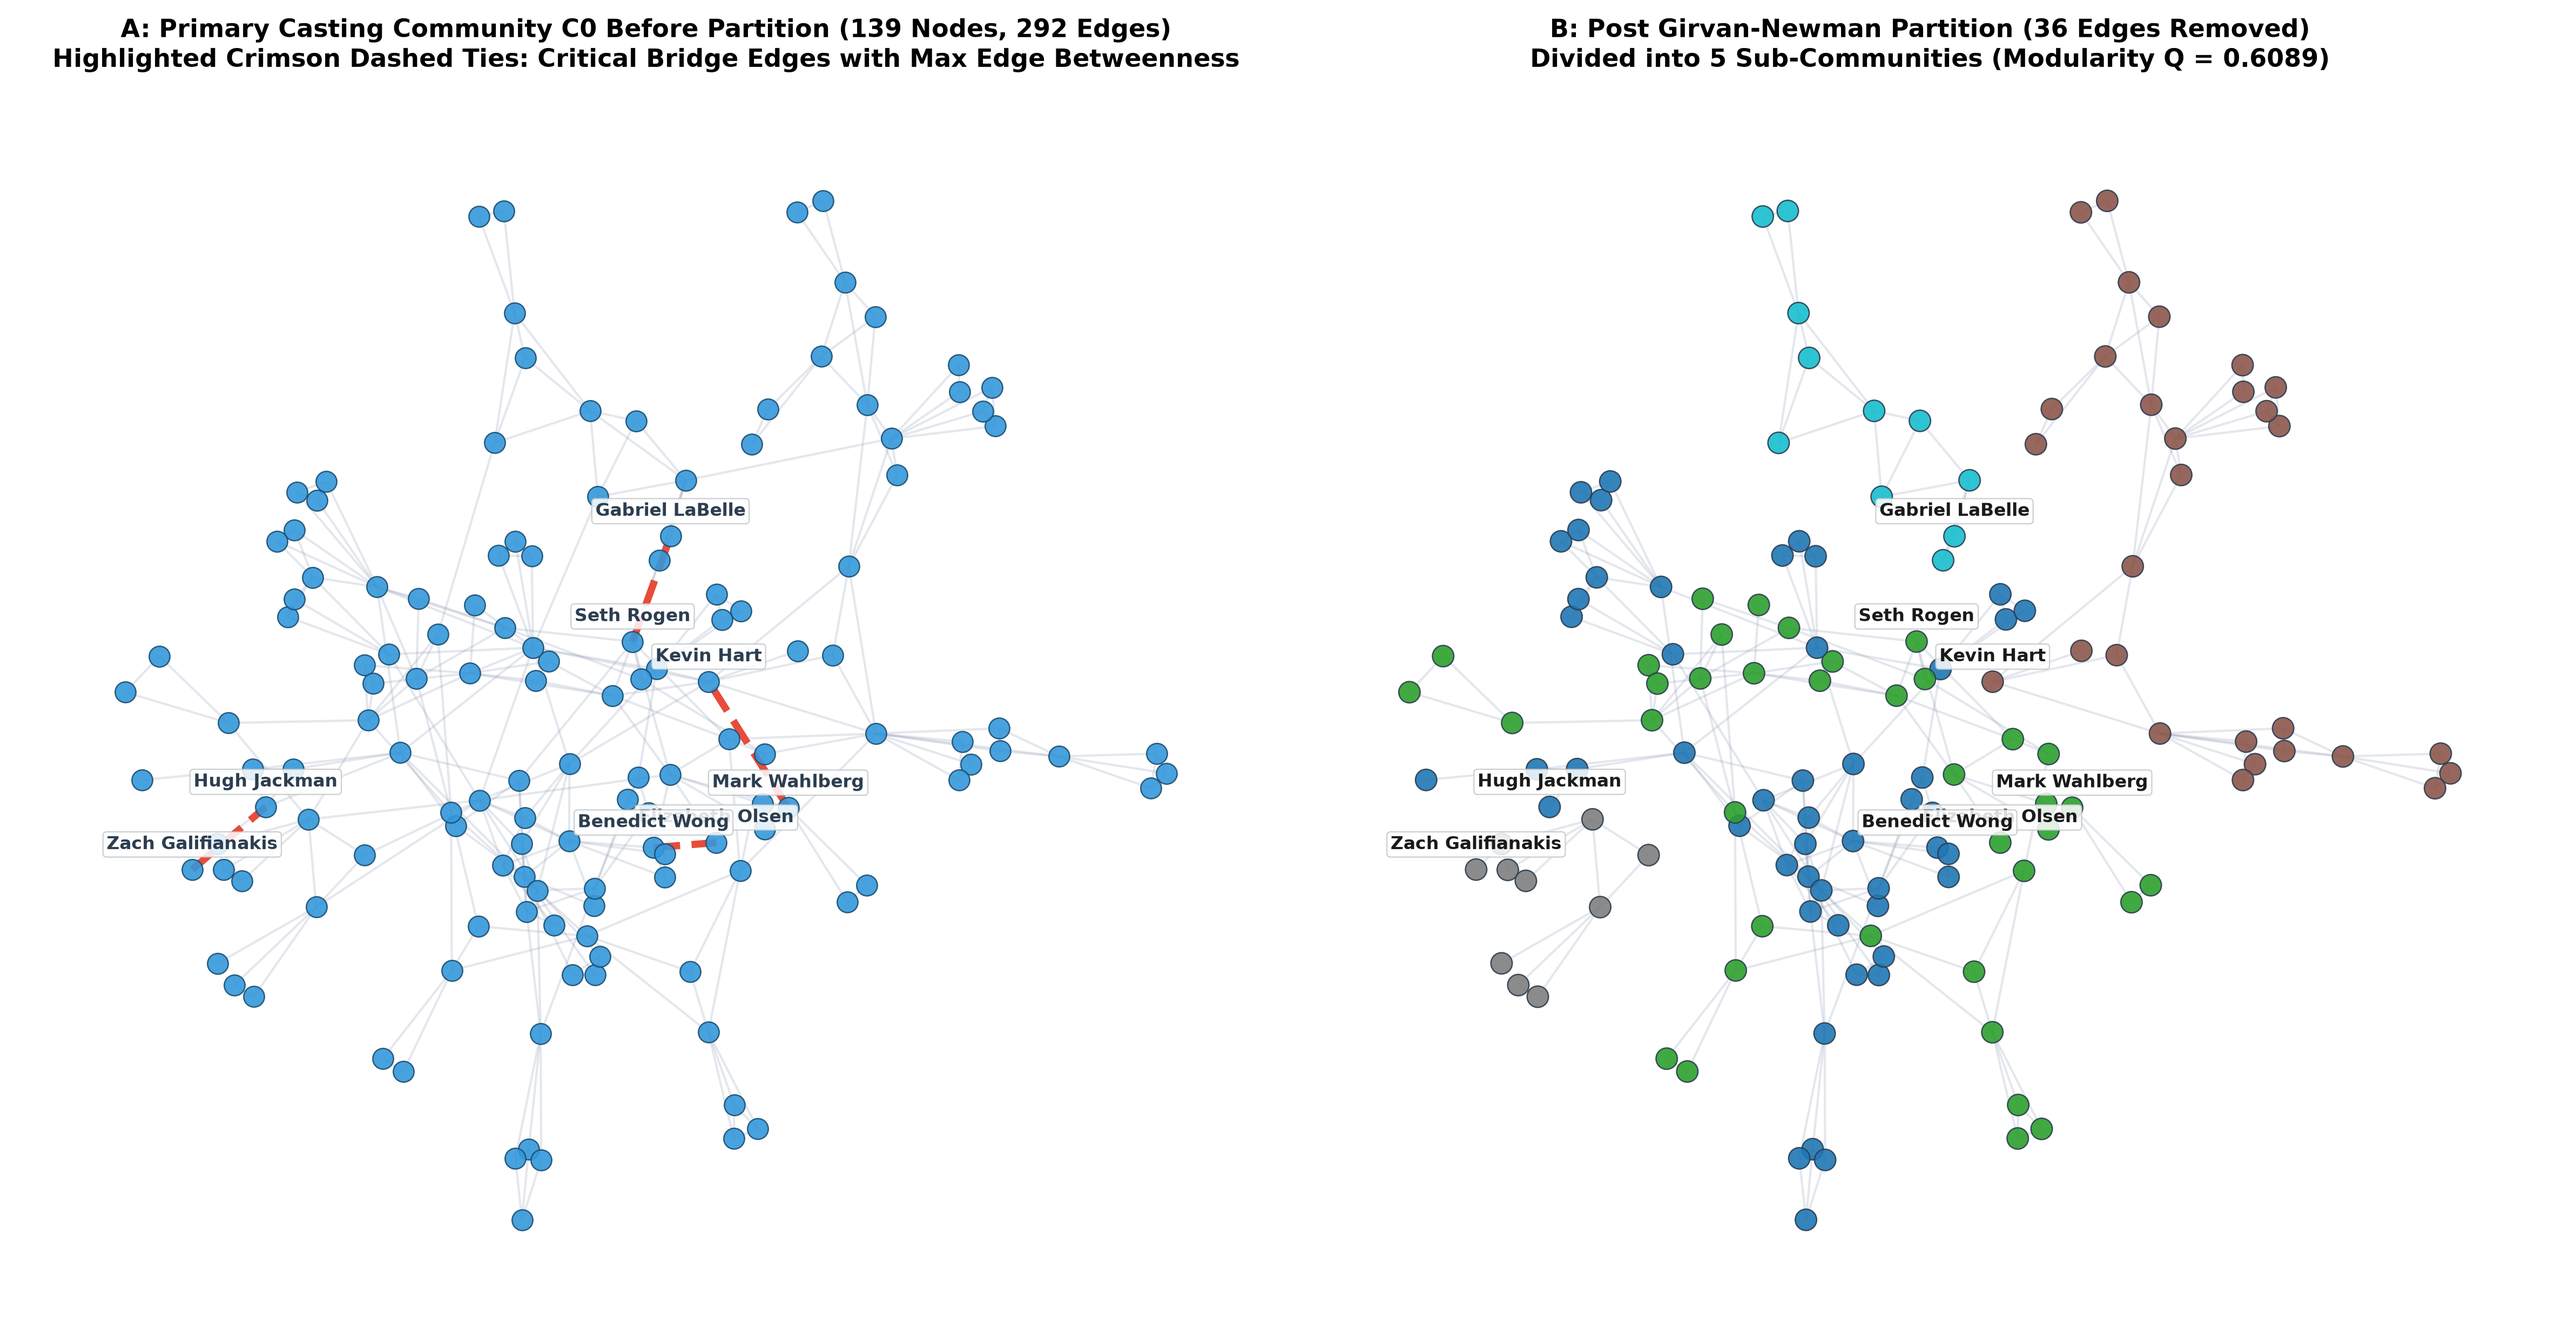
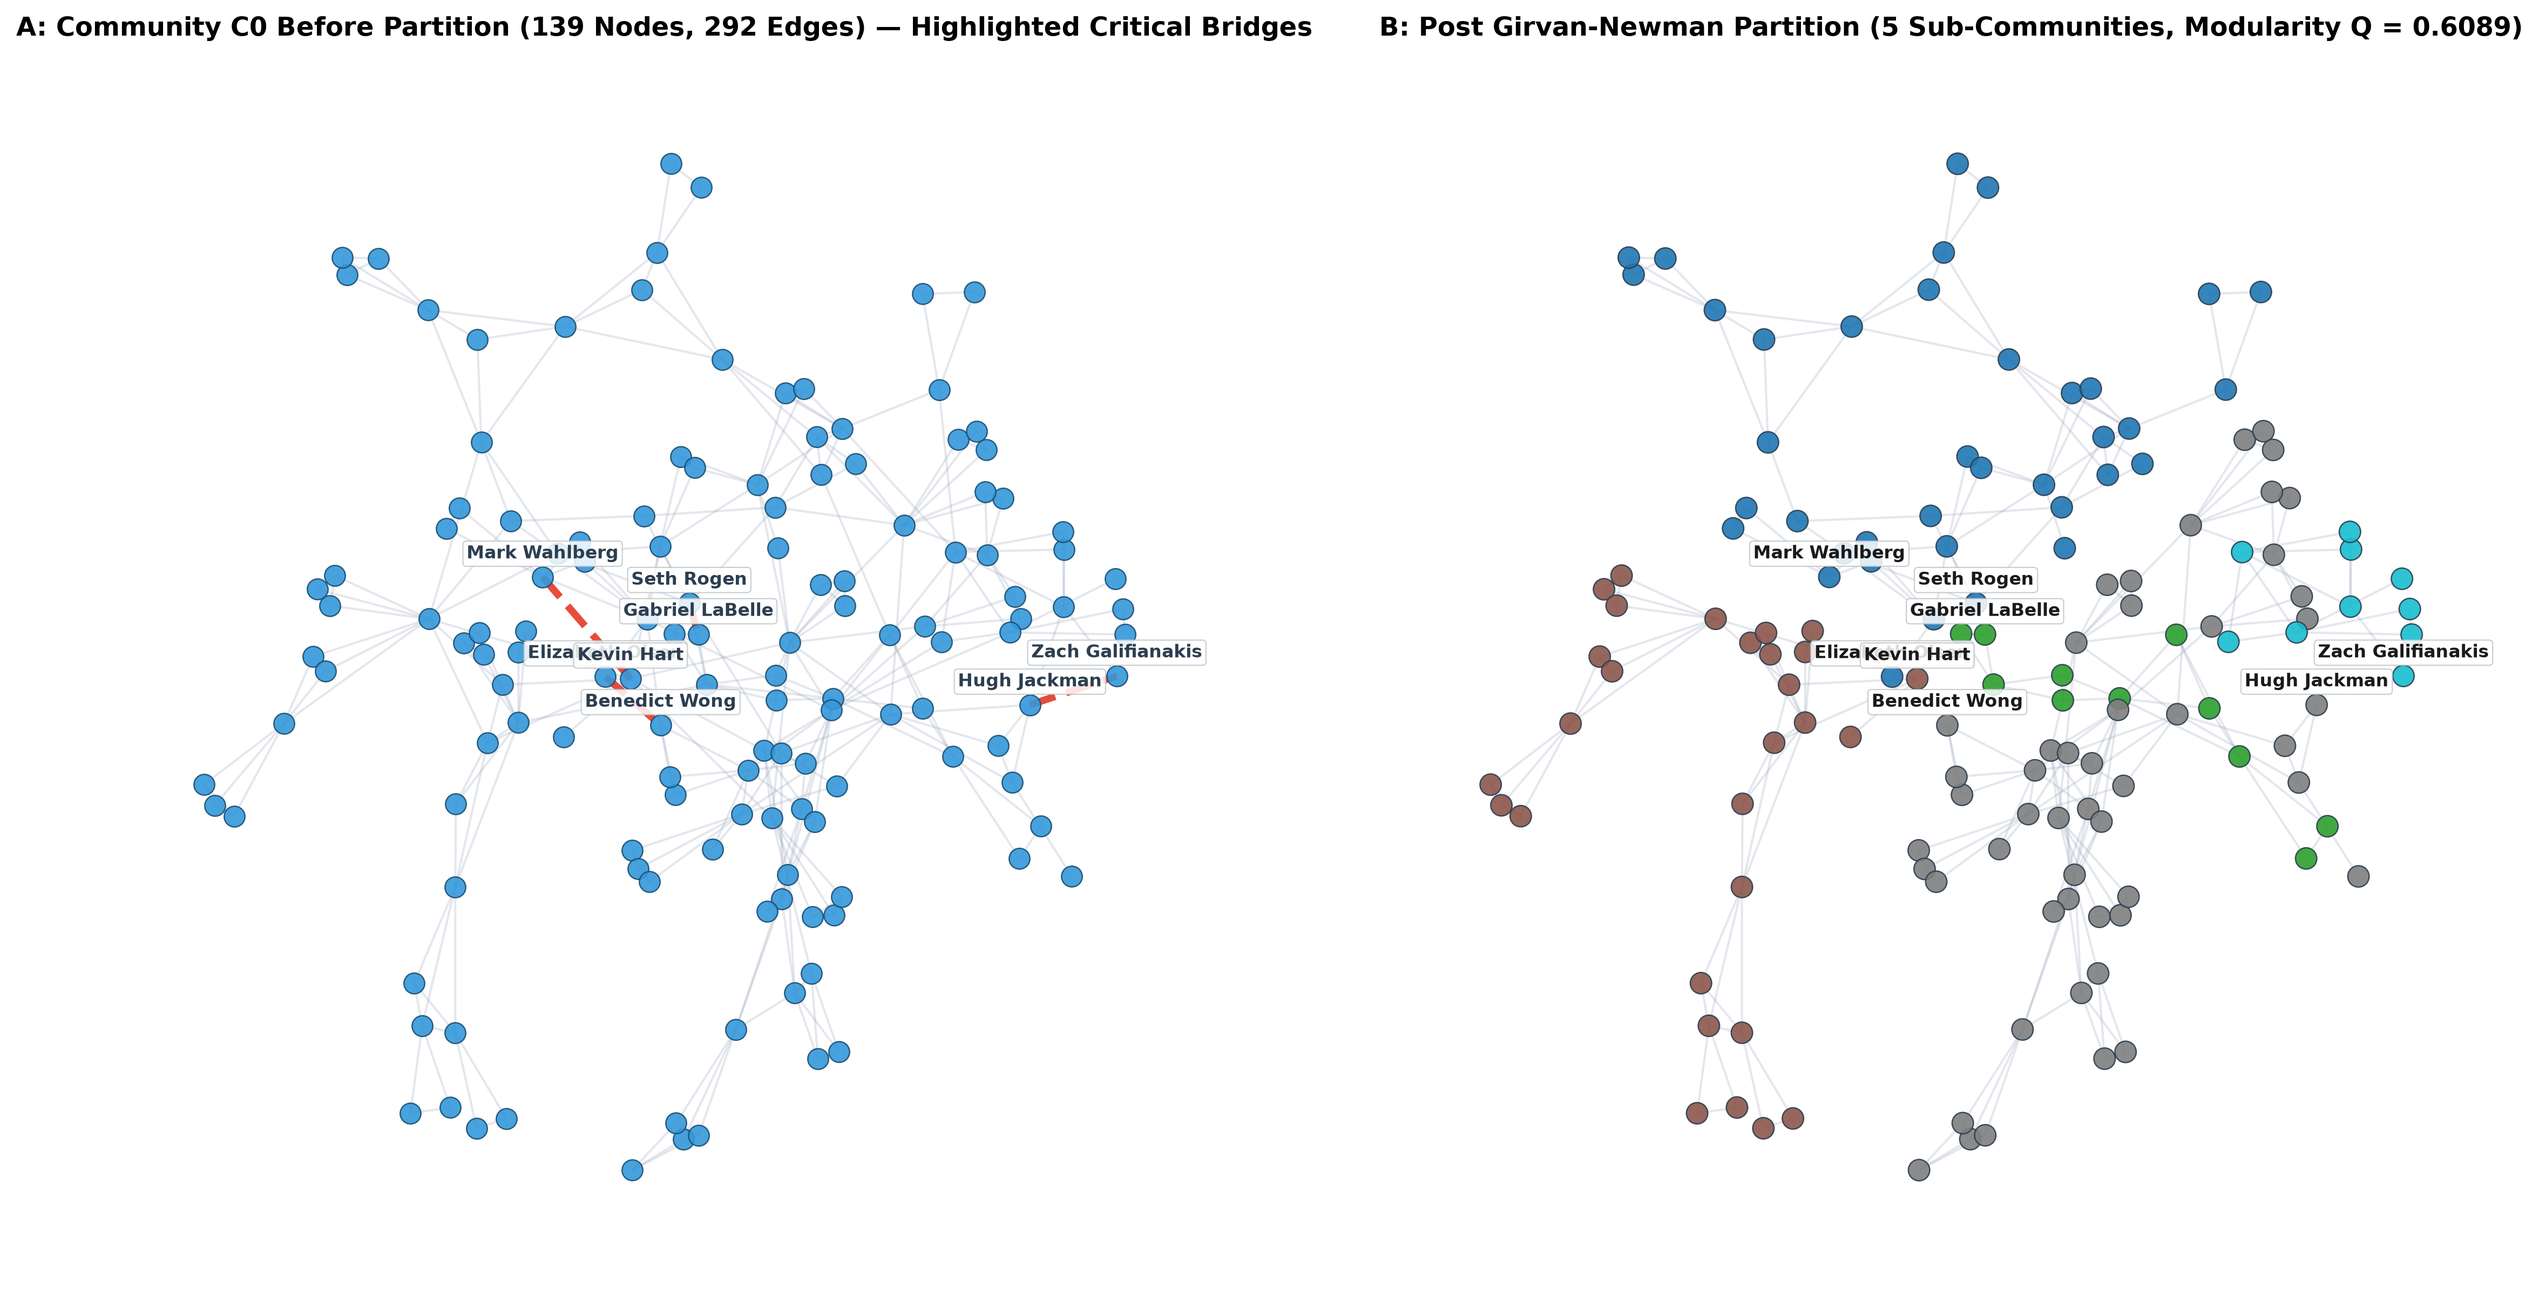
Refine Figure 1 core network to 120 nodes and remove redundant plot titles

diff --git a/build_cinema_network.py b/build_cinema_network.py
@@ -372,17 +372,17 @@ def generate_visualizations(G, gcc, comms, gn_results, lp_results, output_dir=No
         for node in c:
             node_to_comm[node] = comm_id
 
-    core_nodes = [node for node, deg in sorted(gcc.degree(), key=lambda x: x[1], reverse=True)[:250]]
+    core_nodes = [node for node, deg in sorted(gcc.degree(), key=lambda x: x[1], reverse=True)[:120]]
     core_subgraph = gcc.subgraph(core_nodes).copy()
     core_bc = nx.betweenness_centrality(core_subgraph)
-    node_sizes = [max(45, core_bc[n] * 6500) for n in core_subgraph.nodes()]
+    node_sizes = [max(70, core_bc[n] * 7500) for n in core_subgraph.nodes()]
     node_colors = [node_to_comm.get(n, 0) % 16 for n in core_subgraph.nodes()]
 
-    fig, ax = plt.subplots(figsize=(13, 10), dpi=300)
-    pos = nx.spring_layout(core_subgraph, seed=42, k=0.30, iterations=120)
+    fig, ax = plt.subplots(figsize=(12, 11), dpi=300)
+    pos = nx.spring_layout(core_subgraph, seed=42, k=0.36, iterations=140)
     ax.set_aspect("equal")
 
-    nx.draw_networkx_edges(core_subgraph, pos, ax=ax, alpha=0.18, edge_color="#8892b0", width=0.8)
+    nx.draw_networkx_edges(core_subgraph, pos, ax=ax, alpha=0.20, edge_color="#8892b0", width=0.9)
     nx.draw_networkx_nodes(
         core_subgraph,
         pos,
@@ -390,27 +390,22 @@ def generate_visualizations(G, gcc, comms, gn_results, lp_results, output_dir=No
         node_size=node_sizes,
         node_color=node_colors,
         cmap=plt.cm.tab20,
-        alpha=0.90,
+        alpha=0.92,
         edgecolors="#2c3e50",
-        linewidths=0.6
+        linewidths=0.7
     )
 
-    top_labeled = sorted(core_bc.items(), key=lambda x: x[1], reverse=True)[:10]
+    top_labeled = sorted(core_bc.items(), key=lambda x: x[1], reverse=True)[:8]
     for n, _ in top_labeled:
         x, y = pos[n]
         ax.text(
-            x, y + 0.022, n,
-            fontsize=8.5, fontweight="bold", ha="center", va="bottom", color="#1a1a1a",
-            bbox=dict(boxstyle="round,pad=0.22", facecolor="white", edgecolor="#bdc3c7", alpha=0.88, linewidth=0.6)
+            x, y + 0.024, n,
+            fontsize=9, fontweight="bold", ha="center", va="bottom", color="#1a1a1a",
+            bbox=dict(boxstyle="round,pad=0.25", facecolor="white", edgecolor="#bdc3c7", alpha=0.90, linewidth=0.6)
         )
 
-    plt.title(
-        "Modern Cinema Collaboration Network (2018–2026) — Core Topology & Structural Bridges\n"
-        f"Core Subgraph: {core_subgraph.number_of_nodes()} Vertices, {core_subgraph.number_of_edges()} Edges | Node Size: Betweenness Centrality | Color: Louvain Community",
-        fontsize=12, fontweight="bold", pad=15
-    )
     ax.axis("off")
-    plt.tight_layout()
+    plt.tight_layout(pad=0.5)
     plt.savefig(fig1_path, dpi=300, bbox_inches="tight")
     plt.savefig(fig1_alt_path, dpi=300, bbox_inches="tight")
     plt.close()
@@ -427,16 +422,15 @@ def generate_visualizations(G, gcc, comms, gn_results, lp_results, output_dir=No
     critical_edges = gn_results["critical_edges"]
     final_comps = list(nx.connected_components(sub))
 
-    fig, axes = plt.subplots(1, 2, figsize=(16, 8.5), dpi=300)
-    pos_c0 = nx.spring_layout(c0, seed=42, k=0.28, iterations=100)
+    fig, axes = plt.subplots(1, 2, figsize=(16, 8), dpi=300)
+    pos_c0 = nx.spring_layout(c0, seed=42, k=0.30, iterations=110)
     axes[0].set_aspect("equal")
     axes[1].set_aspect("equal")
 
     # Panel A: Before Partitioning
     axes[0].set_title(
-        "A: Primary Casting Community C0 Before Partition (139 Nodes, 292 Edges)\n"
-        "Highlighted Crimson Dashed Ties: Critical Bridge Edges with Max Edge Betweenness",
-        fontsize=11, fontweight="bold", pad=12
+        "A: Community C0 Before Partition (139 Nodes, 292 Edges) — Highlighted Critical Bridges",
+        fontsize=11.5, fontweight="bold", pad=10
     )
     non_crit = [e for e in c0.edges() if tuple(sorted(e)) not in [tuple(sorted(x)) for x in critical_edges]]
     nx.draw_networkx_edges(c0, pos_c0, edgelist=non_crit, ax=axes[0], alpha=0.22, edge_color="#8892b0", width=1.0)
@@ -459,9 +453,8 @@ def generate_visualizations(G, gcc, comms, gn_results, lp_results, output_dir=No
 
     # Panel B: After Divisive Removal
     axes[1].set_title(
-        f"B: Post Girvan-Newman Partition (36 Edges Removed)\n"
-        f"Divided into 5 Sub-Communities (Modularity Q = 0.6089)",
-        fontsize=11, fontweight="bold", pad=12
+        "B: Post Girvan-Newman Partition (5 Sub-Communities, Modularity Q = 0.6089)",
+        fontsize=11.5, fontweight="bold", pad=10
     )
     node_comp_map = {}
     for cid, comp in enumerate(final_comps):
@@ -480,7 +473,7 @@ def generate_visualizations(G, gcc, comms, gn_results, lp_results, output_dir=No
         )
     axes[1].axis("off")
 
-    plt.tight_layout()
+    plt.tight_layout(pad=0.8)
     plt.savefig(fig2_path, dpi=300, bbox_inches="tight")
     plt.close()
     print("Figure 2 generated successfully!")
